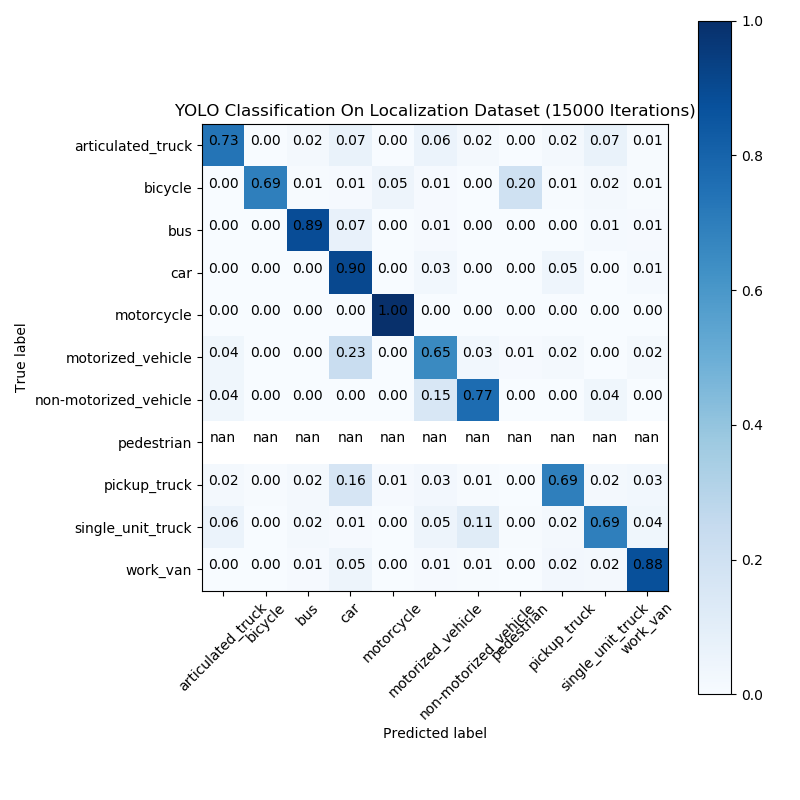
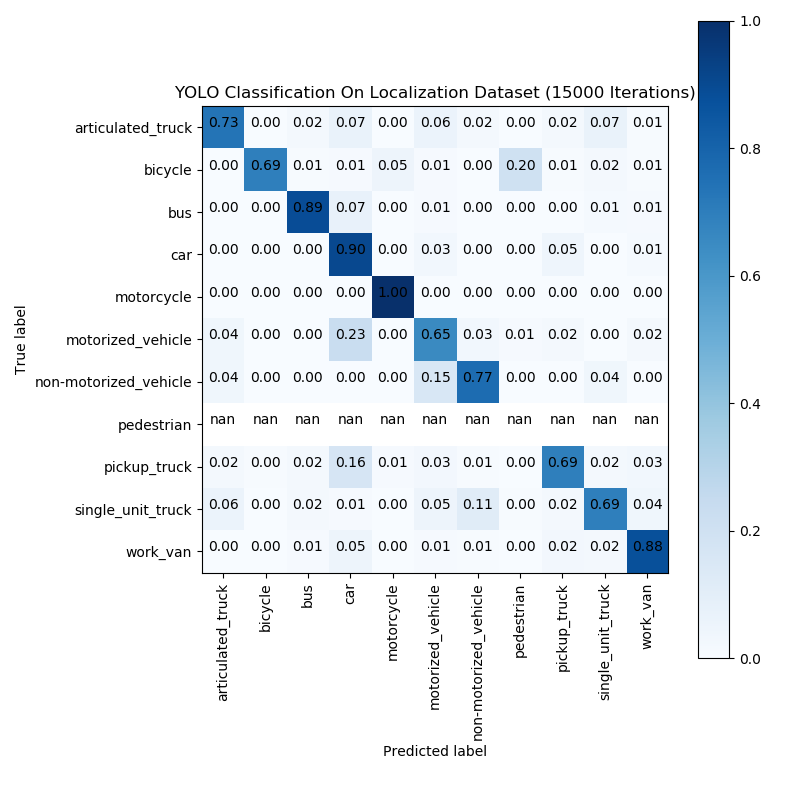
Updated confusion matrices

diff --git a/src/result/plotter.py b/src/result/plotter.py
@@ -22,7 +22,7 @@ def plot_confusion_matrix(cm, classes,
     plt.title(title)
     plt.colorbar()
     tick_marks = np.arange(len(classes))
-    plt.xticks(tick_marks, classes, rotation=45)
+    plt.xticks(tick_marks, classes, rotation=90)
     plt.yticks(tick_marks, classes)
 
     fmt = '.2f' if normalize else 'd'
@@ -36,7 +36,7 @@ def plot_confusion_matrix(cm, classes,
     plt.xlabel('Predicted label')
     plt.tight_layout()
 
-iteration = '15000'
+iteration = '25000'
 
 # load class names
 class_names = [
@@ -67,8 +67,8 @@ for i in range(1, len(predictions)):
 # compute precision and recalls
 scores_svm = classification_report(labels, svm_pred, target_names=class_names)
 scores_yolo = classification_report(labels, yolo_pred, target_names=class_names)
-# with open('scores-svm-{}.txt'.format(iteration), 'w') as f:
-#     f.write(scores_svm)
+with open('scores-svm-{}.txt'.format(iteration), 'w') as f:
+    f.write(scores_svm)
 with open('scores-yolo-{}.txt'.format(iteration), 'w') as f:
     f.write(scores_yolo)
 
@@ -77,10 +77,10 @@ svm_confusion = confusion_matrix(svm_pred, labels)
 yolo_confusion = confusion_matrix(yolo_pred, labels)
 
 # plot confusion matrix
-# plt.figure(figsize=(8,8))
-# plot_confusion_matrix(svm_confusion, classes=class_names, normalize=True,
-#                       title='SVM Classification On Localization Dataset')
-# plt.savefig('confusion-svm-{}.png'.format(iteration))
+plt.figure(figsize=(8,8))
+plot_confusion_matrix(svm_confusion, classes=class_names, normalize=True,
+                      title='SVM Classification On Localization Dataset')
+plt.savefig('confusion-svm-{}.png'.format(iteration))
 
 plt.figure(figsize=(8,8))
 plot_confusion_matrix(yolo_confusion, classes=class_names, normalize=True,

diff --git a/README.md b/README.md
@@ -1,11 +1,25 @@
-# 415-final-project
+# ECSE 415 - Introduction To Computer Vision Final Project
 
-## Prerequisites
+The following repository holds the source code for the ECSE 415 - Introduction To Computer Vision course final project. The final project involves completing both the classification and localization on the [MIO-TCD](http://podoce.dinf.usherbrooke.ca/challenge/dataset/) dataset with specific method restrictions. The exact requirements can be found in the attached PDF file.
 
-### YOLO (You Only Look Once)
- 
-The pretrained YOLO v3 weights file will be needed for object localization. Download the weights from this [link](https://pjreddie.com/media/files/yolov3.weights) and place it in the *src* directory or you can directly download in the terminal using
- 
- `$ wget https://pjreddie.com/media/files/yolov3.weights`
- 
+## Prerequisites 
+
+#### Python Packages
+
+The necessary python packages can be installed by running the requirements.txt file using pip.
+
+```
+pip install -r requirements.txt
+```
+
+#### YOLO v3 (You Only Look Once)
+
+A custom trained model of the YOLO v3 deep learning implementation is utilized for both localization and classification. The model was trained by using the provided ground truth data and following the instructions in the [Darknet github repository](https://github.com/AlexeyAB/darknet).
+
+Download the [latest trained weights](https://415.blob.core.windows.net/data/yolo-custom-25000.weights) and place it in the *src/yolo* directory or download directly from a linux terminal.
+
+```
+wget https://415.blob.core.windows.net/data/yolo-custom-25000.weights
+```
+
 
